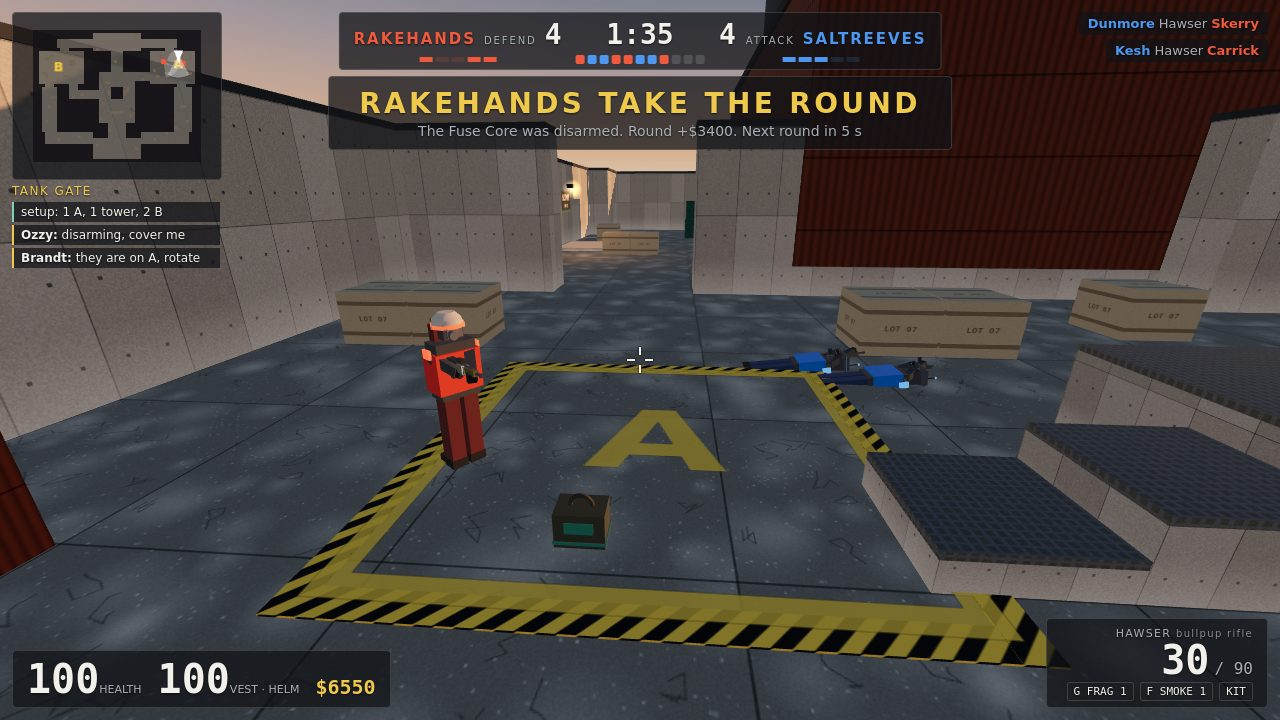
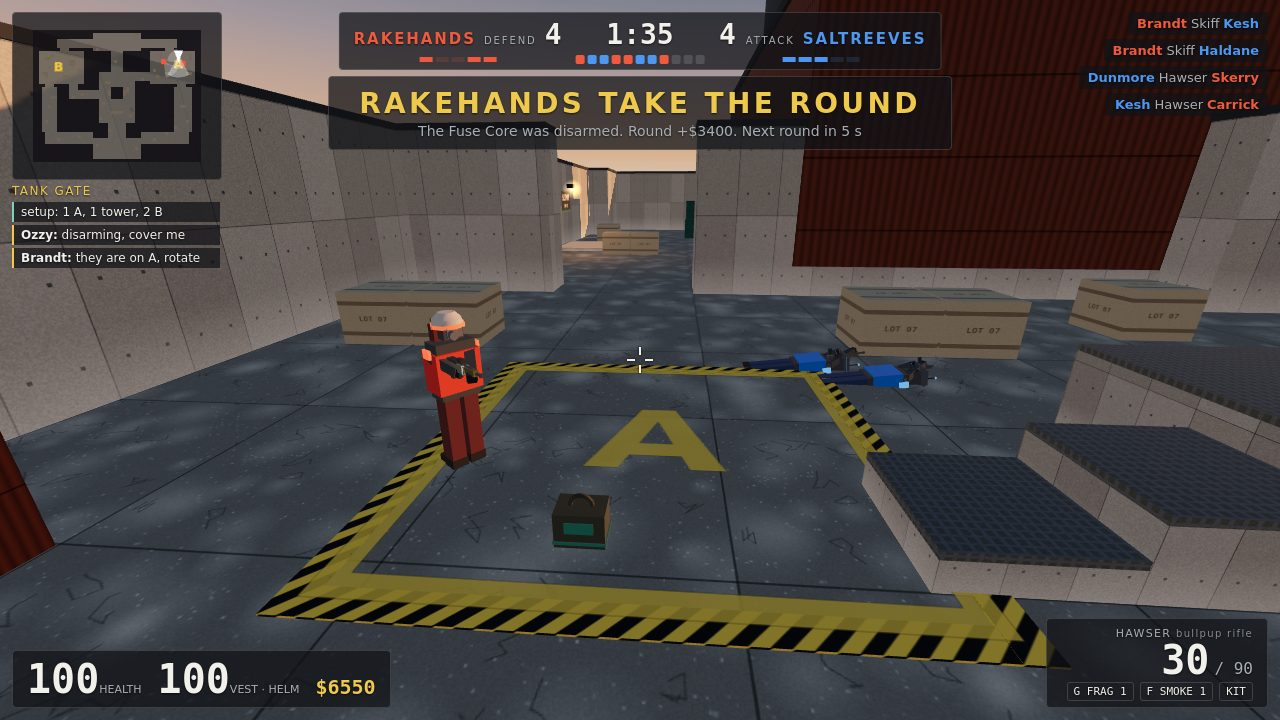
Cover from clear of the low wall with the stack in its sky; staged bodies have their kill rows
- Shot 1 is taken from (32,26): the blank block shrinks to ~12% of the frame; the hall, its lamp,
  the whole CONVEYOR COURT board and the evaporator stack's capped top in open sky (the stack
  moved west of the works; its comment said east).
- Staging: a body placed for a scene whose death the fast-forward did not log gets a kill row from
  a teammate, and every kill of the current round stays in the feed, so shot 4's two downed
  Saltreeves at A have their rows. Fresh screenshots.

Changed region(s): [[0.8438, 0.0, 1.0, 0.1528]]

diff --git a/tools/stage.js b/tools/stage.js
@@ -3,11 +3,11 @@
 // window.__brineworks: the sim plays the match with the player slot on the bot brain up to the scene's
 // round, the cast below is placed for the frame, and the real sim runs the moment (bots think, guns fire,
 // the HUD and view read the events as in play). Not part of the judged game/.
-import { DT } from './src/sim/config.js';
+import { DT, WEAPONS } from './src/sim/config.js';
 import { giveWeapon, eyeOf, heightOf } from './src/sim/actors.js';
 import { createBrain, think } from './src/sim/bots.js';
 import { yawTo } from './src/sim/util.js';
-import { EV } from './src/sim/events.js';
+import { EV, emit } from './src/sim/events.js';
 import { radio } from './src/sim/coach.js';
 
 // cast: [who, col, row, faces col, faces row, gun]; who: p player, m0.. teammates, f0.. opponents.
@@ -19,7 +19,7 @@ const SCENES = {
   // Conveyor Court: crouched by the low wall, the player drops one Saltreeve with a headshot, then trades
   // with a second one 7 m out against the lit west wall (his muzzle flash, our hit marker).
   1: { side: 0, round: 5, clock: 91, ticks: 36, core: 'mate', hide: ['damage'],
-    cast: [['p', 31, 28, 29, 25, 'hawser'], ['f0', 28, 24, 31, 28, 'hawser'], ['f1', 29, 25, 31, 28, 'cleat']],
+    cast: [['p', 32, 26, 28, 25, 'hawser'], ['f0', 27, 24, 32, 26, 'hawser'], ['f1', 28, 25, 32, 26, 'cleat']],
     fire: [['f1', 0.42, -0.1]], // his first shots go low: the player survives the trade
     radio: [['m1', 'gunfire at Conveyor Court'], ['m0', 'go B now']], // heard from the cut; the coach's call
     script(i, s) {
@@ -93,7 +93,7 @@ function stage(ctx, sc) {
   const d = plan.text.match(/^setup: (\d) A, 1 tower, (\d) B$/);
   if (d) plan.text = `setup: ${d[1] - (d[1] === '3')} A, 1 tower, ${d[2] - (d[1] !== '3')} B`;
   const mySide = state.teams[p.team].side, side = (sd, alive) => state.actors.filter((a) => a !== p && a.alive === alive && state.teams[a.team].side === sd);
-  const mates = side(mySide, true), foes = side(1 - mySide, true), fallen = side(1 - mySide, false), picked = {};
+  const mates = side(mySide, true), foes = side(1 - mySide, true), fallen = side(1 - mySide, false), downBefore = new Set(fallen), picked = {};
   const who = (k) => (k === 'p' ? p : (picked[k] ??= k[0] === 'm' ? mates[+k[1]] : (sc.dead?.includes(k) && fallen.shift()) || foes[+k[1]]));
   const cast = new Set(sc.cast.map(([k]) => who(k)));
   // The living not cast wait in their own spawn, out of sight.
@@ -113,10 +113,15 @@ function stage(ctx, sc) {
   }
   state.round.planted = sc.core === 'armed';
   if (sc.smoke) Object.assign(state.smokes[0], { live: true, x: sc.smoke[0] * S, y: 0, z: sc.smoke[1] * S, age: 2 });
-  for (const k of sc.dead ?? []) Object.assign(who(k), { alive: false, hp: 0, diedAt: -99 }); // bodies of an earlier fight
+  for (const k of sc.dead ?? []) { // bodies of an earlier fight; one still alive a moment ago gets his kill row
+    const a = who(k), m = who('m1') ?? p;
+    if (!downBefore.has(a)) emit(state.events, EV.KILL, m.id, a.id, WEAPONS[m.slots[m.active].id].index, 0).t = state.time;
+    Object.assign(a, { alive: false, hp: 0, diedAt: -99 });
+  }
   for (const a of [...mates, ...foes]) Object.assign(a.brain, { atHold: true, calledAt: 1e9 }); // silent: no arrival or contact calls
   for (const e of state.events.list) if (e.type === EV.RADIO) e.type = 0; // older lines (and the autopilot player's)
-  for (const e of state.events.list) if (e.type === EV.KILL && state.time - e.t < 60) e.t = state.time; // this round's kills stay in the feed (rows expire after 10 s)
+  const roundStart = Math.max(...state.events.list.filter((e) => e.type === EV.ROUND && !e.v).map((e) => e.t));
+  for (const e of state.events.list) if (e.type === EV.KILL && e.t >= roundStart) e.t = state.time; // this round's kills stay in the feed (rows expire after 10 s)
   for (const [k, text] of sc.radio ?? []) radio(state, who(k), text);
   for (const [k, react, low = 0.01] of sc.fire ?? []) Object.assign(who(k).brain, { target: p.id, reactTimer: react, errYaw: 0.02, errPitch: low, aimHead: false, crouchSpray: false, lastSeenId: p.id, lastSeenTime: 1e9 });
   // Look at an actor's head or chest, or (k null) at pitch `part` toward cell (c, r).

diff --git a/game/src/render/level.js b/game/src/render/level.js
@@ -160,8 +160,8 @@ export function buildLevel(map, tex) {
   };
   for (const [x, z, r, h] of [[-14, 18, 15, 8], [-10, 52, 12, 7], [W + 16, 30, 17, 9], [24, -42, 36, 20], [4, -30, 20, 11], [46, -44, 24, 14], [64, -18, 16, 9]]) add(heap(r, h), salt, x, -0.3, z);
   for (const z of [34, 42]) for (const x of [58, 65]) { add(new THREE.CylinderGeometry(3.2, 3.2, 17, 24), steel, x, 8.5, z); add(new THREE.ConeGeometry(3.3, 1.6, 24), oxide, x, 17.8, z); }
-  add(new THREE.CylinderGeometry(4.4, 5.6, 40, 16), steel, -25, 20, -10); // the evaporator stack, a landmark east of the works
-  add(new THREE.CylinderGeometry(5.6, 5.6, 2, 16), oxide, -25, 40, -10);
+  add(new THREE.CylinderGeometry(4.4, 5.6, 52, 16), steel, -37, 26, 12); // the evaporator stack, a landmark west of the works
+  add(new THREE.CylinderGeometry(5.6, 5.6, 2, 16), oxide, -37, 52, 12);
   flat(900, 900, std({ color: 0x6f6c66, roughness: 1 }), W / 2, -0.05, D / 2); // salt flats into the fog
   return group;
 }

diff --git a/NOTES.md b/NOTES.md
@@ -41,7 +41,7 @@ after round 5; first to 6 wins. Objective: the Fuse Core (carry, arm on site A o
   Saltreeves; weapons Cleat, Skiff, Hawser, Bollard, Capstan; the field's names are banned.
 
 ## Budget (tools/budget.mjs 158)
-- Source 161,407 bytes (157.6 KiB); dossier text 163,832 of 163,840 (no cut, 8 B left). Every
+- Source 161,405 bytes (157.6 KiB); dossier text 163,830 of 163,840 (no cut, 10 B left). Every
   addition is paid for by a trim: NOTE condensed (-700 B), two trim passes (-0.5 KB, -0.3 KB, sim
   and renders verified identical). Further savings need restructuring (collide.js raycast/fillHit,
   bots.js playObjective/followPlan).
@@ -101,6 +101,13 @@ after round 5; first to 6 wins. Objective: the Fuse Core (carry, arm on site A o
 - G3/M2: bots kneel while arming (Carrick kneels over the case in shot 3).
 - G4: all four shots from seed 14's first match (round 4 at 1-2, round 5 at 2-2, round 7 buy at 3-3,
   round 8 retake win at 4-4); scenes start only when the player is alive.
+
+## Done in the 12:20 run (operator Q1-Q3)
+- Q2: the cover is shot from (32,26), clear of the low wall: the block is ~12% of the frame, the
+  hall, the lamp, the whole CONVEYOR COURT board and the stack's capped top in open sky (stack moved
+  to x -37, z 12, coordinates only). Q1: the target reads ~90 px at 1280x720.
+- Q3: a staged body whose death the fast-forward did not log gets a kill row from a teammate, and
+  every kill of the current round stays in the feed: shot 4's two Saltreeves at A have their rows.
 
 ## Open
 - S5 buy on a sim tick (+40 B), G2 radar routes, G8 round line, E belt, BRINEWORKS stencil: need
